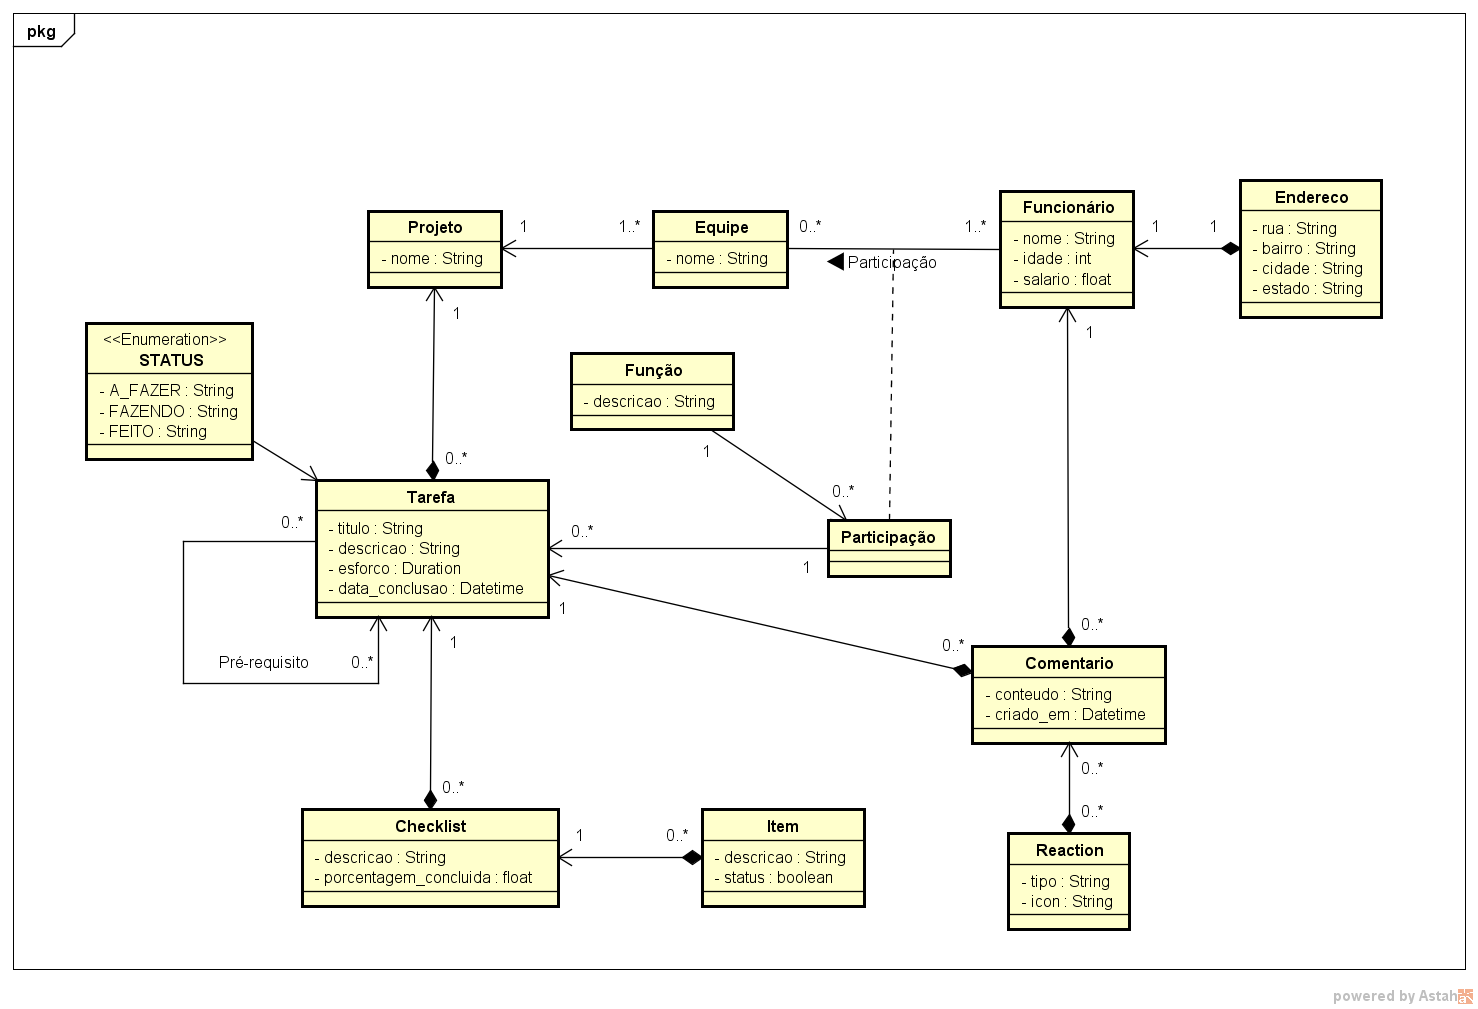
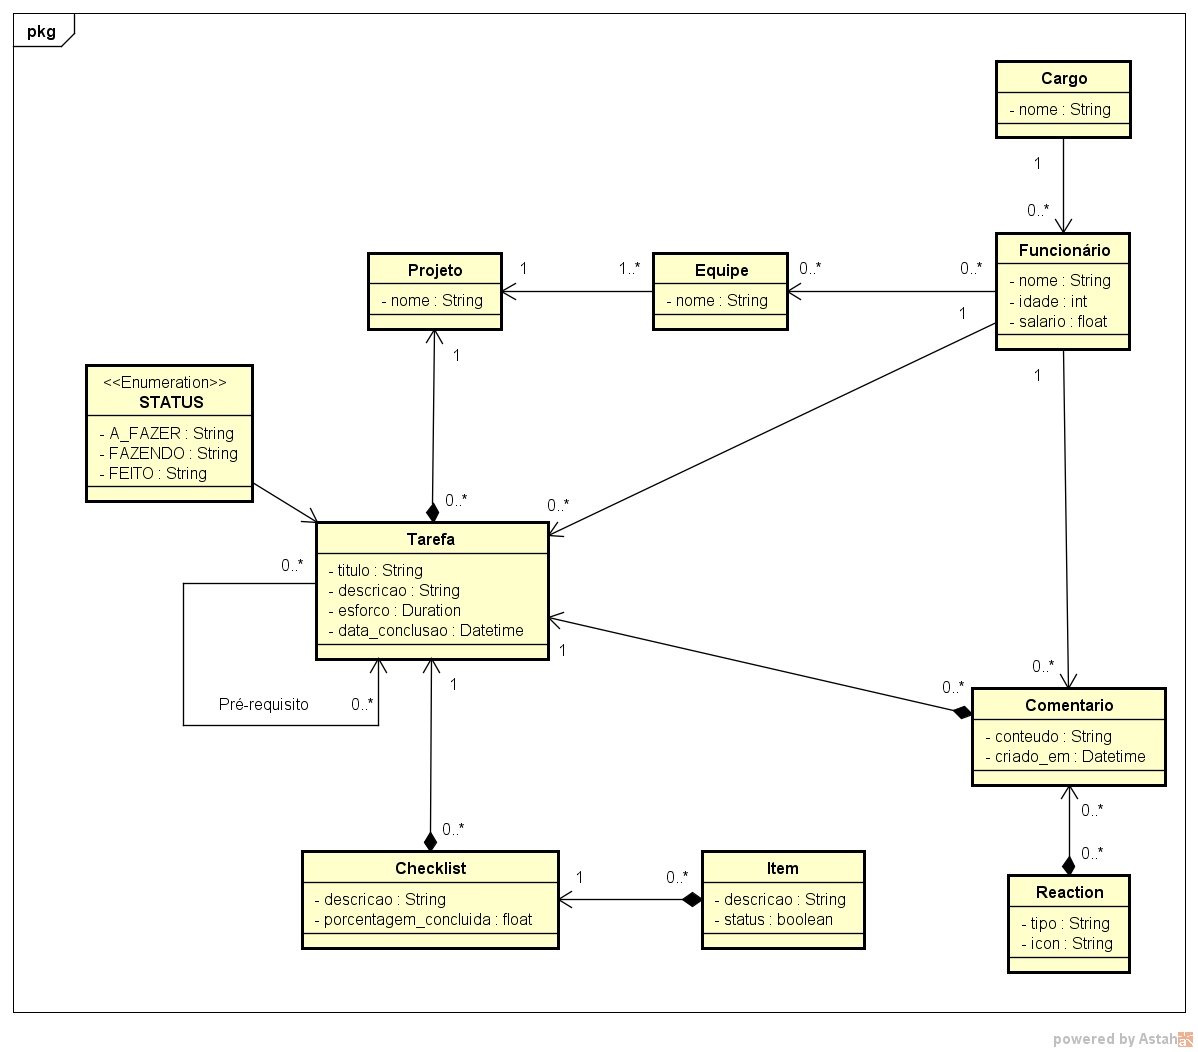
Alterando modelos.

diff --git a/projeto/templates/base.html b/projeto/templates/base.html
@@ -16,7 +16,7 @@
 			col-xs-10 col-xs-offset-1">
 
 	<div class="header">
-		<h1 class="title-page"><a href="{% url 'index' %}">Project-Manager</a></h1>
+		<h1 class="title-page">Project Manager</h1>
 	</div>
 
 	<div class="row">

diff --git a/projeto/models.py b/projeto/models.py
@@ -16,7 +16,7 @@ class Projeto(models.Model):
         return self.nome
 
 
-class Funcao(models.Model):
+class Cargo(models.Model):
     nome = models.CharField(max_length=50)
 
     class Meta:
@@ -30,7 +30,7 @@ class Funcionario(models.Model):
     nome = models.CharField(max_length=100)
     idade = models.IntegerField()
     salario = models.DecimalField(max_digits=9,decimal_places=2)
-    endereco = models.OneToOneField('Endereco',on_delete=models.CASCADE,null=True)
+    funcao = models.ForeignKey(funcao,on_delete=models.SET_NULL)
 
     class Meta:
         db_table = "funcionario"
@@ -43,27 +43,13 @@ class Equipe(models.Model):
     nome = models.CharField(max_length=50)
     projeto = models.ForeignKey(Projeto,on_delete=models.CASCADE,
                                 related_name="equipes")
-    membros = models.ManyToManyField(Funcionario,through='Participacao')
+    membros = models.ManyToManyField(Funcionario)
 
     def __str__(self):
         return self.nome
 
     class Meta:
         db_table = "equipe"
-
-
-class Participacao(models.Model):
-    equipe = models.ForeignKey(Equipe,on_delete=models.CASCADE,
-                            related_name="participantes")
-    funcionario = models.ForeignKey(Funcionario,on_delete=models.CASCADE,
-                            related_name="participacoes")
-    funcao = models.OneToOneField(Funcao)
-
-    def __str__(self):
-        return "{}, {}, {}".format(self.equipe.nome,self.funcionario.nome,self.funcao.nome)
-
-    class Meta:
-        db_table = "participacao"
 
 
 class Tarefa(models.Model):
@@ -125,16 +111,3 @@ class Item(models.Model):
 
     def __str__(self):
         return "{}, {}".format(self.descricao,self.status)
-
-
-class Endereco(models.Model):
-    rua = models.CharField(max_length=50)
-    bairro = models.CharField(max_length=50)
-    cidade = models.CharField(max_length=50)
-    estado = models.CharField(max_length=50)
-
-    class Meta:
-        db_table = "endereco"
-        
-    def __str__(self):
-        return "{}, {}".format(self.rua,self.bairro)
